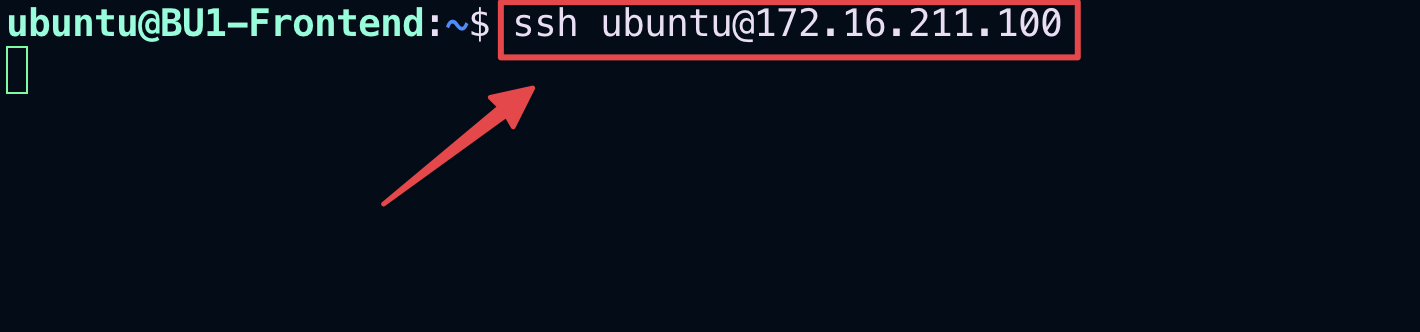
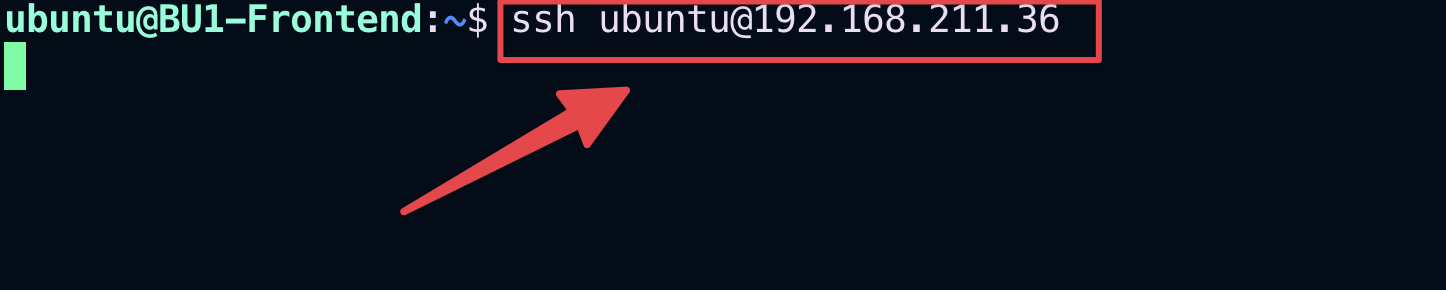
update for ops

Changed region(s): [[0.0, 0.0, 0.7746, 0.3103], [0.2789, 0.2483, 0.4338, 0.7448], [0.2479, 0.5897, 0.2789, 0.6207]]

diff --git a/ace_ops/docs/lab7.md b/ace_ops/docs/lab7.md
@@ -4,6 +4,13 @@
 
 ACE’s environment has been split up in two SmartGroups: **BU1** and **BU2**. Under the hood, there is a flat routing domain, due to the connection policy that merged the two network domains.
 
+```{figure} images/ops-newlab-000.png
+---
+align: center
+---
+Initial lab 7 Scenario Topology
+```
+
 Let’s enable the **Distributed Cloud Firewall** to secure and govern the traffic runtime within CNSF.
 
 ```{tip}
@@ -104,7 +111,7 @@ align: center
 Commit
 ```
 
-- Log in to **BU1 Frontend**, then SSH to the **BU1 Analytics** private IP address.
+- Log in to **BU1 Frontend**, then SSH to the **BU1 DB** private IP address.
 
 ```{figure} images/ops-newlab-04.png
 ---
@@ -124,38 +131,20 @@ align: center
 Monitor
 ```
 
-- Define the following Distributed Cloud Firewall (DCF) rules to re-establish and govern East-West traffic:
+Define the following Distributed Cloud Firewall (DCF) rules to re-establish and govern East-West traffic:
 
   - **Intra-rule**: allow SSH <span style='color:orange'>**within**</span> BU1
   - **Intra-rule**: allow ICMP <span style='color:orange'>**within**</span> BU1
   - **Inter-rule**: allow ICMP <span style='color:lightblue'>**from**</span> BU1 **to** BU2
   - **Inter-rule**: allow SSH <span style='color:lightblue'>**from**</span> BU2 **to** BU1
 
-```{figure} images/lab8-topology.png
----
-height: 400px
-align: center
----
-Initial lab 8 Scenario Topology
-```
-
 ## 2. CHANGE REQUEST
-
-- SSH on the **BU1 Frontend** and try to SSH to any other instances in BU1.
-  - SSH fails as expected.
-
-```{figure} images/lab8-sshbu1.png
----
-align: center
----
-SSH fails within BU1
-```
 
 - Create an intra-rule that allows SSH **within** BU1 and then verify that SSH is permitted among BU1’s instances. 
   Do not forget to enable **“Logging”**, for auditing purposes.
 
 ```{tip}
-Go to **CoPilot > Security > Distributed Cloud Firewall** and click on **"+ Rule"**.
+Navigate to **CoPilot > Security > Distributed Cloud Firewall** and click on **"+ Rule"**.
 ```
 
 Ensure these parameters are entered in the pop-up window `"Create Rule"`:
@@ -168,17 +157,25 @@ Ensure these parameters are entered in the pop-up window `"Create Rule"`:
 - **Logging**: <span style='color:#479608'>On</span>
 - **Action**: <span style='color:#479608'>**Permit**</span>
 
-Do not forget to click on **Save In Drafts**, and then **Commit** your rule.
-
-```{figure} images/lab8-rule01.png
+```{figure} images/ops-newlab-06.png
 ---
 height: 200px
 align: center
 ---
-Another intra-rule
+intra-rule
 ```
 
-- Retry to SSH to the BU1 Analytics from the BU1 Frontend; this time the operation will be accomplished!
+Do not forget to click on **Save In Drafts**, and then **Commit** your rule.
+
+```{figure} images/ops-newlab-07.png
+---
+height: 200px
+align: center
+---
+Commit
+```
+
+- Retry to SSH to the **BU1 DB** from the BU1 Frontend; this time the operation will be accomplished!
 
 ```{figure} images/lab8-sshok.png
 ---
@@ -198,7 +195,7 @@ Intra-SSH BU1
 - Check the **Logs** generated after the action carried out before.
 
 ```{tip}
-Go to **CoPilot > Security > Distributed Cloud Firewall > Monitor**
+Navigate to **CoPilot > Security > Distributed Cloud Firewall > Monitor**
 ```
 
 ```{figure} images/lab8-monitornew.png
